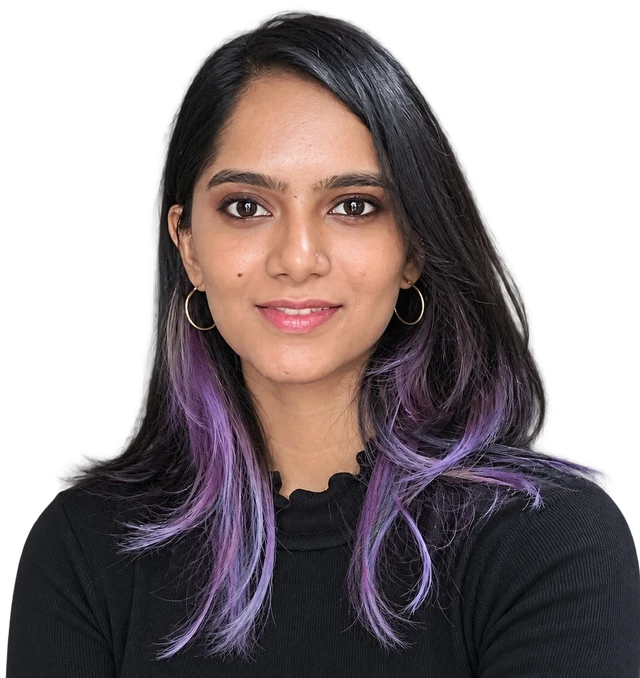
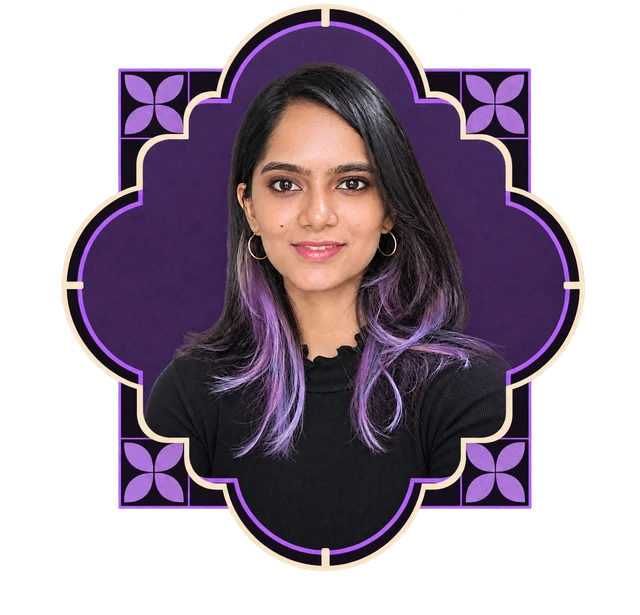
Use framed quatrefoil headshot
Replaces the circular backdrop with Harini's own framed portrait (an
Athangudi-style quatrefoil tile frame, transparent outside), with a soft
drop shadow.

Claude-Session: https://claude.ai/code/session_01HMXuHd8uDEADmxtaTzqHFA

diff --git a/styles.css b/styles.css
@@ -114,35 +114,15 @@ h1, h2, h3, p, figure, ul { margin: 0; }
 }
 
 .portrait {
-  /* Cut-out photo over a violet disc: the head rises above the circle,
-     the shoulders are trimmed to its lower curve. */
-  --w: clamp(96px, 9vw, 150px);
-  --cy: 52.8%;                 /* disc centre, as a share of the photo height */
-  position: relative;
-  width: var(--w);
+  /* Framed headshot: an Athangudi-style quatrefoil frame, transparent outside. */
+  --w: clamp(130px, 13vw, 220px);
   flex: none;
-  margin-left: calc(var(--w) * -0.17);
-}
-.portrait::before {
-  content: "";
-  position: absolute; left: 0; bottom: 0;
-  width: 100%; aspect-ratio: 1;
-  border-radius: 50%;
-  background:
-    radial-gradient(80% 70% at 50% 22%, rgb(185 154 239 / .45), transparent 70%),
-    linear-gradient(180deg, #5B36B0 0%, #3B2470 50%, #241A3E 100%);
-  opacity: .4;
+  width: var(--w);
+  margin-left: calc(var(--w) * -0.06);
 }
 .portrait img {
-  position: relative;
   width: 100%; height: auto;
-  /* everything above the disc's centre shows; below it, only what lies inside the disc */
-  -webkit-mask-image:
-    linear-gradient(#000 0 var(--cy), transparent var(--cy)),
-    radial-gradient(circle calc(var(--w) / 2) at 50% var(--cy), #000 calc(100% - 1px), transparent 100%);
-  mask-image:
-    linear-gradient(#000 0 var(--cy), transparent var(--cy)),
-    radial-gradient(circle calc(var(--w) / 2) at 50% var(--cy), #000 calc(100% - 1px), transparent 100%);
+  filter: drop-shadow(0 10px 18px rgb(0 0 0 / .45));
 }
 
 /* ----------------------------------------------------------------- mural -- */
@@ -402,7 +382,7 @@ html:not(.js) .tile:focus-within .tile__inner { transform: rotateY(180deg); }
 @media (max-width: 1080px) {
   .layout, .site-footer { grid-template-columns: 1fr; }
   .intro { max-width: 620px; }
-  .portrait { --w: clamp(96px, 26vw, 150px); margin-left: -4px; }
+  .portrait { --w: clamp(120px, 34vw, 170px); margin-left: -4px; }
   .mural { margin-top: clamp(40px, 7vw, 64px); }
 }
 
@@ -410,7 +390,6 @@ html:not(.js) .tile:focus-within .tile__inner { transform: rotateY(180deg); }
   .site-header { padding-top: 18px; padding-bottom: 10px; }
   .intro__row { gap: 16px; }
   .intro h1 { font-size: clamp(1.9rem, 8.4vw, 2.4rem); }
-  .intro h1 .nowrap { white-space: normal; }
   .role { font-size: 1.05rem; }
   .monogram { font-size: 1.8rem; }
   .nav { gap: 0; }

diff --git a/index.html b/index.html
@@ -37,7 +37,7 @@
     <section class="intro" aria-labelledby="intro-title">
       <div class="intro__row">
         <figure class="portrait">
-          <img src="assets/portrait.webp" width="640" height="678" alt="Photograph of Harini: long dark hair with violet streaks, gold hoop earrings and a black ruffled-neck top.">
+          <img src="assets/portrait.webp" width="640" height="615" alt="Photograph of Harini, with long dark hair with violet streaks and gold hoop earrings, set in a violet quatrefoil tile frame.">
         </figure>
         <div class="intro__text">
           <h1 id="intro-title">Hi, I am <span class="nowrap">Harini.<svg class="spark spark--title" aria-hidden="true"><use href="#spark"/></svg></span></h1>
